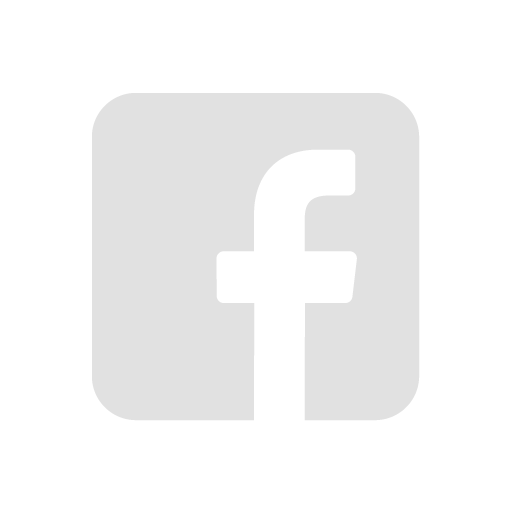
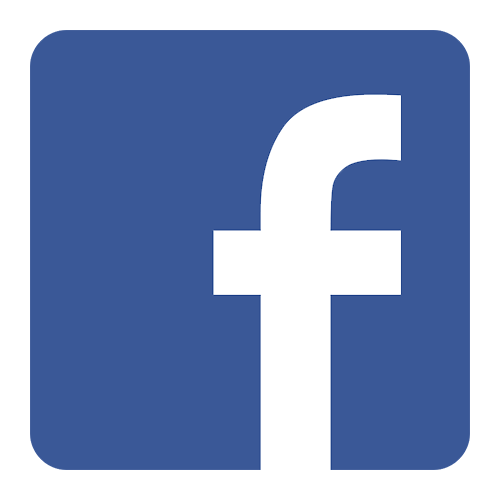
ABOUT PAGE, made social links have same grey hover effect as portfolio.

diff --git a/src/components/about.js b/src/components/about.js
@@ -1,6 +1,6 @@
 import React from "react";
 import photo from "../images/9A2A8274.JPG";
-import Insta from "../images/insta.png";
+import Insta from "../images/instagram.png";
 import Facebook from "../images/facebook.png";
 import LinkedIn from "../images/linkedin.png";
 import Email from "../images/gmail.png";
@@ -29,22 +29,37 @@ const About = () => (
           </p>
           <div className="social">
             <a href="https://www.instagram.com/aj.holsinger" target="blank_">
-              <img className="instagram" src={Insta} alt="yeah" />
+              <img
+                className="social-img"
+                id="instagram"
+                src={Insta}
+                alt="yeah"
+              />
             </a>
             <a href="https://www.facebook.com/aj.holsinger" target="blank_">
-              <img className="facebook" src={Facebook} alt="yeah" />
+              <img
+                className="social-img"
+                id="facebook"
+                src={Facebook}
+                alt="yeah"
+              />
             </a>
             <a
               href="https://www.linkedin.com/in/aj-holsinger-8b83a815a/"
               target="blank_"
             >
-              <img className="linkedin" src={LinkedIn} alt="yeah" />
+              <img
+                className="social-img"
+                id="linkedin"
+                src={LinkedIn}
+                alt="yeah"
+              />
             </a>
             <a href="https://www.github.com/aj.holsinger" target="blank_">
-              <img className="github" src={Github} alt="yeah" />
+              <img className="social-img" id="github" src={Github} alt="yeah" />
             </a>
             <a href="mailto:ajholsinger@austinholsinger.com">
-              <img className="email" src={Email} alt="yeah" />
+              <img className="social-img" id="email" src={Email} alt="yeah" />
             </a>
           </div>
         </div>

diff --git a/src/App.css b/src/App.css
@@ -130,11 +130,7 @@ body {
     text-align: center;
   }
 
-  .instagram,
-  .linkedin,
-  .facebook,
-  .email,
-  .github {
+  .social-img {
     height: 35px;
     width: auto;
     margin: 15px;
@@ -289,12 +285,14 @@ body {
     text-align: center;
   }
 
-  .instagram,
-  .linkedin,
-  .facebook {
+  .social-img {
     height: 50px;
     width: auto;
     margin: 25px;
+  }
+  .social-img:hover {
+    transition: all 0.8s ease;
+    animation: greyscale 1s forwards;
   }
   /*------------------------*/
   /*PORTFOLIO CONTROLS*/
@@ -445,15 +443,19 @@ body {
     text-align: center;
   }
 
-  .instagram,
-  .linkedin,
-  .facebook,
-  .email,
-  .github {
+  .social-img {
+    -webkit-filter: grayscale(100%);
+    filter: grayscale(100%);
     height: 45px;
     width: auto;
     margin: 25px;
   }
+
+  .social-img:hover {
+    animation: greyscale 1s forwards;
+    transition: all 0.8s ease;
+  }
+
   /*------------------------*/
   /*PORTFOLIO CONTROLS*/
   .projects {
@@ -611,14 +613,18 @@ body {
     display: block;
   }
 
-  .instagram,
-  .linkedin,
-  .facebook,
-  .email,
-  .github {
+  .social-img {
+    -webkit-filter: grayscale(100%);
+    filter: grayscale(100%);
     height: 45px;
     width: auto;
     margin: 65px 45px 0px 45px;
+    transition: all 0.8s ease;
+  }
+
+  .social-img:hover {
+    transition: all 0.8s ease;
+    animation: greyscale 1s forwards;
   }
   /*------------------------*/
 
